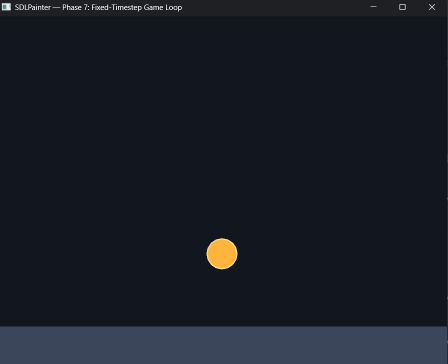
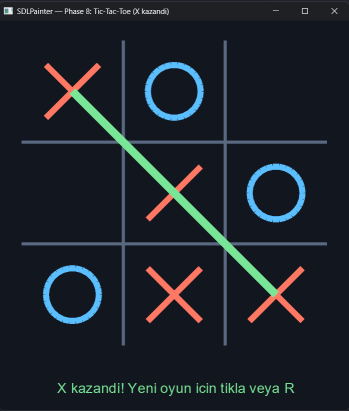
Ornek uygulama ekran goruntusu guncellendi.

diff --git a/README.md b/README.md
@@ -76,7 +76,7 @@ Windows, script tabanlı derleme ve Vulkan'lı build için:
 | ![Primitifler](doc/screenshots/primitifler.png) | ![Texture](doc/screenshots/texture.png) |
 | **Temel primitifler** — stroke/fill, kalın çizgiler, konkav poligon (`phase1_demo`) | **Image / texture** — ölçekleme, atlas dilimleme, döndürme (`phase3_demo`) |
 | ![Metin](doc/screenshots/metin.png) | ![Uygulama](doc/screenshots/uygulama.png) |
-| **Metin** — SDL_ttf, hizalama, rect içine yerleştirme (`phase4_demo`) | **Uygulama çatısı** — `sdl_painter_app` ile oyun döngüsü (`phase7_game_demo`) |
+| **Metin** — SDL_ttf, hizalama, rect içine yerleştirme (`phase4_demo`) | **Uygulama çatısı** — `sdl_painter_app` ile tic-tac-toe oyunu (`phase8_tictactoe`) |
 
 Tüm demoların ne yaptığı: [Örnekler Rehberi](doc/sdl-painter-ornekler.md).
 

diff --git a/README.en.md b/README.en.md
@@ -80,7 +80,7 @@ For Windows, script-based builds and Vulkan-enabled builds see the
 | ![Primitives](doc/screenshots/primitifler.png) | ![Texture](doc/screenshots/texture.png) |
 | **Basic primitives** — stroke/fill, thick lines, concave polygon (`phase1_demo`) | **Image / texture** — scaling, atlas slicing, rotation (`phase3_demo`) |
 | ![Text](doc/screenshots/metin.png) | ![Application](doc/screenshots/uygulama.png) |
-| **Text** — SDL_ttf, alignment, layout inside a rect (`phase4_demo`) | **Application framework** — game loop via `sdl_painter_app` (`phase7_game_demo`) |
+| **Text** — SDL_ttf, alignment, layout inside a rect (`phase4_demo`) | **Application framework** — tic-tac-toe game via `sdl_painter_app` (`phase8_tictactoe`) |
 
 What each demo does: [Examples Guide](doc/sdl-painter-ornekler.md) *(in Turkish)*.
 
